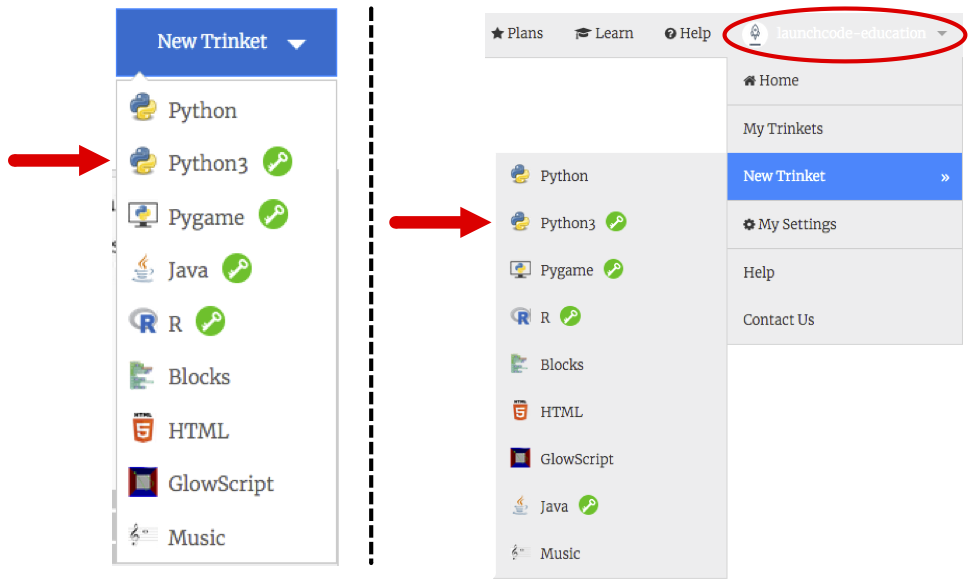
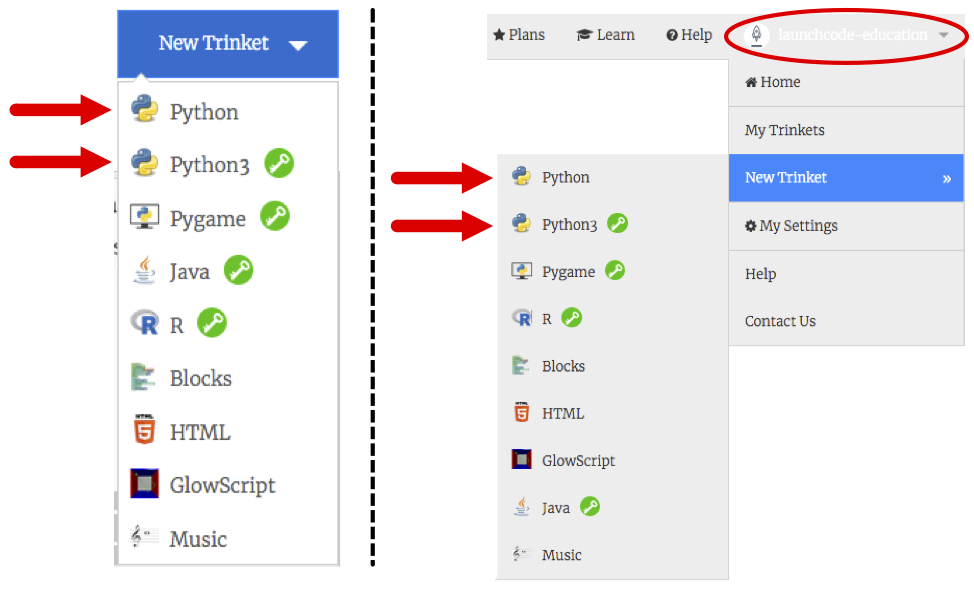
Finished draft for the trinket.rst page.

diff --git a/src/chapters/how-programs-work/trinket.rst b/src/chapters/how-programs-work/trinket.rst
@@ -17,7 +17,7 @@ Create a Trinket.io Account
 
 .. admonition:: Warning
 
-   Before signing up for a Trinket account be sure your school has approved
+   Before signing up for a Trinket account, be sure your school has approved
    the site for student use!
 
 Create a new student account with Trinket `here <https://trinket.io/signup>`__.
@@ -36,10 +36,10 @@ much on this screen.
 
 Click on the *New Trinket* button to begin a new project. You can also access
 this option from the username dropdown menu. Scroll through the language
-options and select *Python3*.
+options and select either *Python* (free account) or *Python3* (paid account).
 
 .. figure:: figures/new-trinket.png
-   :alt: Screenshot of the dropdown menus for creating a new Python3 Trinket.
+   :alt: Screenshot of the dropdown menus for creating a new Python Trinket.
    :width: 70%
 
    New trinket options.
@@ -53,8 +53,34 @@ name your project, then use the *Save* button.
 
    Name your new project!
 
+Trinket Python Versions
+^^^^^^^^^^^^^^^^^^^^^^^
+
+Trinket allows users to code in both Python versions 2 and 3, but some of the
+latest version 3.x features are not supported with a free account. However, the
+free service will work just fine for this course (which focuses on versions
+3.6 and later).
+
+From time to time, you may notice that the exact same code behaves differently
+in your saved trinkets compared to the examples found in this book. When this
+happens, it is probably due to a version conflict. You can fix the issue by
+adding a special line of code to the top of your saved trinkets:
+
+::
+
+   #!/bin/python3
+
+This tells the editor to run the code as a Python 3 program.
+
+.. figure:: figures/python-version.png
+   :alt: Screenshot showing how to add #!/bin/python3 to a trinket.
+   :width: 70%
+
+   Adding #!/bin/python3 to a project. Note the small difference in the two
+   outputs. The bottom result is what we expect from Python version 3.x.
+
 The Trinket Workspace
-^^^^^^^^^^^^^^^^^^^^^
+---------------------
 
 Now let's take a look at how to use Trinket. The workspace consists of two
 main panels, one hidden panel, and several menu functions.
@@ -96,8 +122,3 @@ refresh the page.
 
 At any time, you can return to a list of your saved projects by clicking on the
 *My Trinkets* link next to the project name.
-
-Trinket Python Versions
------------------------
-
-Lorem ipsum...

diff --git a/src/chapters/how-programs-work/replit.rst b/src/chapters/how-programs-work/replit.rst
@@ -12,11 +12,10 @@ Create a Repl.it Account
 
 .. admonition:: Warning
 
-   Before signing up for a repl.it account be sure your school has approved
+   Before signing up for a repl.it account, be sure your school has approved
    the site for student use!
 
-If you have not already done so, create a new student account with
-`Repl.it <https://repl.it/signup>`__.
+Create a new student account with `Repl.it <https://repl.it/signup>`__.
 
 .. figure:: figures/replit-signup.png
    :alt: Image of the repl.it sign-up screen.
@@ -37,7 +36,7 @@ select *Python*. Next, name your project and click *Create Repl*.
    :alt: Create a new Python repl.
 
 The Repl.it Workspace
-^^^^^^^^^^^^^^^^^^^^^^
+---------------------
 
 Now let's take a look at how to use Repl.it. The workspace consists of three
 main panels and several menu functions.
